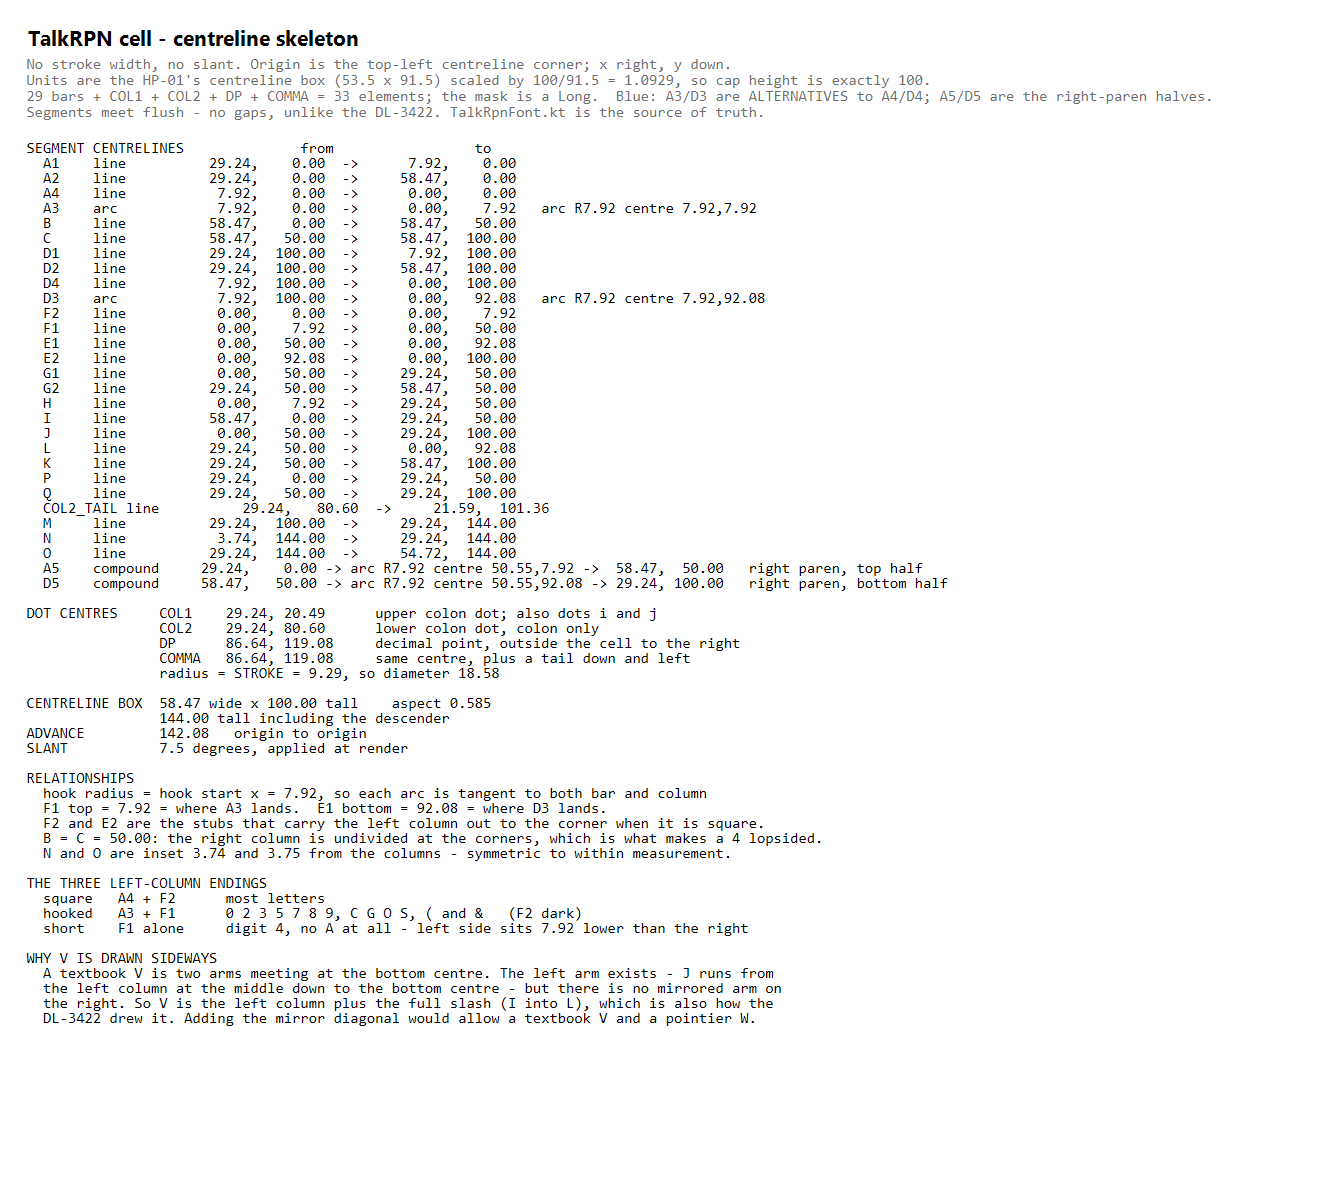
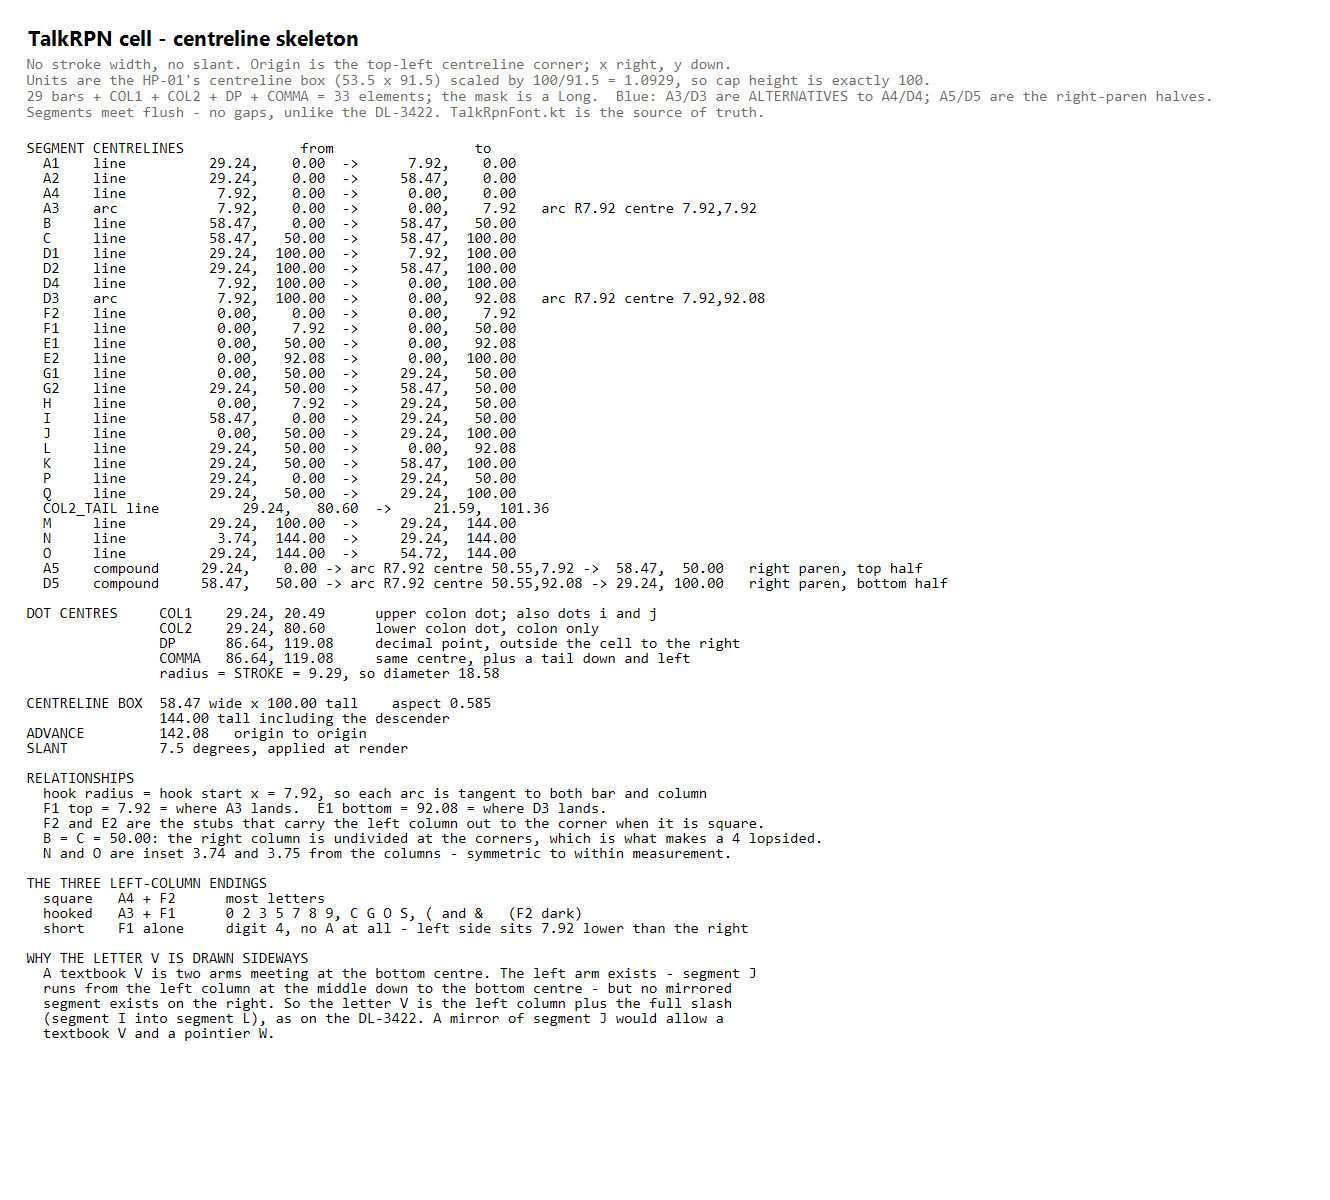
Say "segment J", never bare J, when a segment is meant
The segments are named with letters the font also draws, so prose about this
font is ambiguous exactly where it matters most. The V note on the reference
listing - the passage that demonstrated the problem - now says segment J,
segment I, segment L, and the glyph-table header records the convention.

Changed region(s): [[0.0308, 0.7708, 0.5857, 0.8633]]

diff --git a/app/src/main/java/com/nerdfever/talkrpn/TalkRpnGlyphs.kt b/app/src/main/java/com/nerdfever/talkrpn/TalkRpnGlyphs.kt
@@ -26,12 +26,15 @@ import com.nerdfever.talkrpn.TalkRpnFont.Seg
  * the watch and correct by segment name.
  *
  * ---------------------------------------------------------------------------
- * Why J exists
+ * Why segment J exists
  * ---------------------------------------------------------------------------
- * J (the second lower-left diagonal, crossing L) is what draws the lower-case
- * x - the two of them ARE the x. It also serves e and s. There is no mirror
- * diagonal in the lower right; V and v are drawn vertical-plus-slash instead,
- * which is how the DL-3422 does it.
+ * Segment J (the second lower-left diagonal, crossing segment L) is what draws
+ * the letter x - the two of them ARE the x. It also serves the letters e and s.
+ * There is no mirror diagonal in the lower right; the letters V and v are drawn
+ * vertical-plus-slash instead, which is how the DL-3422 does it.
+ *
+ * Convention, per Dave: in prose, "segment J" for segments, bare letters for
+ * glyphs. A bare J is ambiguous.
  */
 
 object TalkRpnGlyphs {
